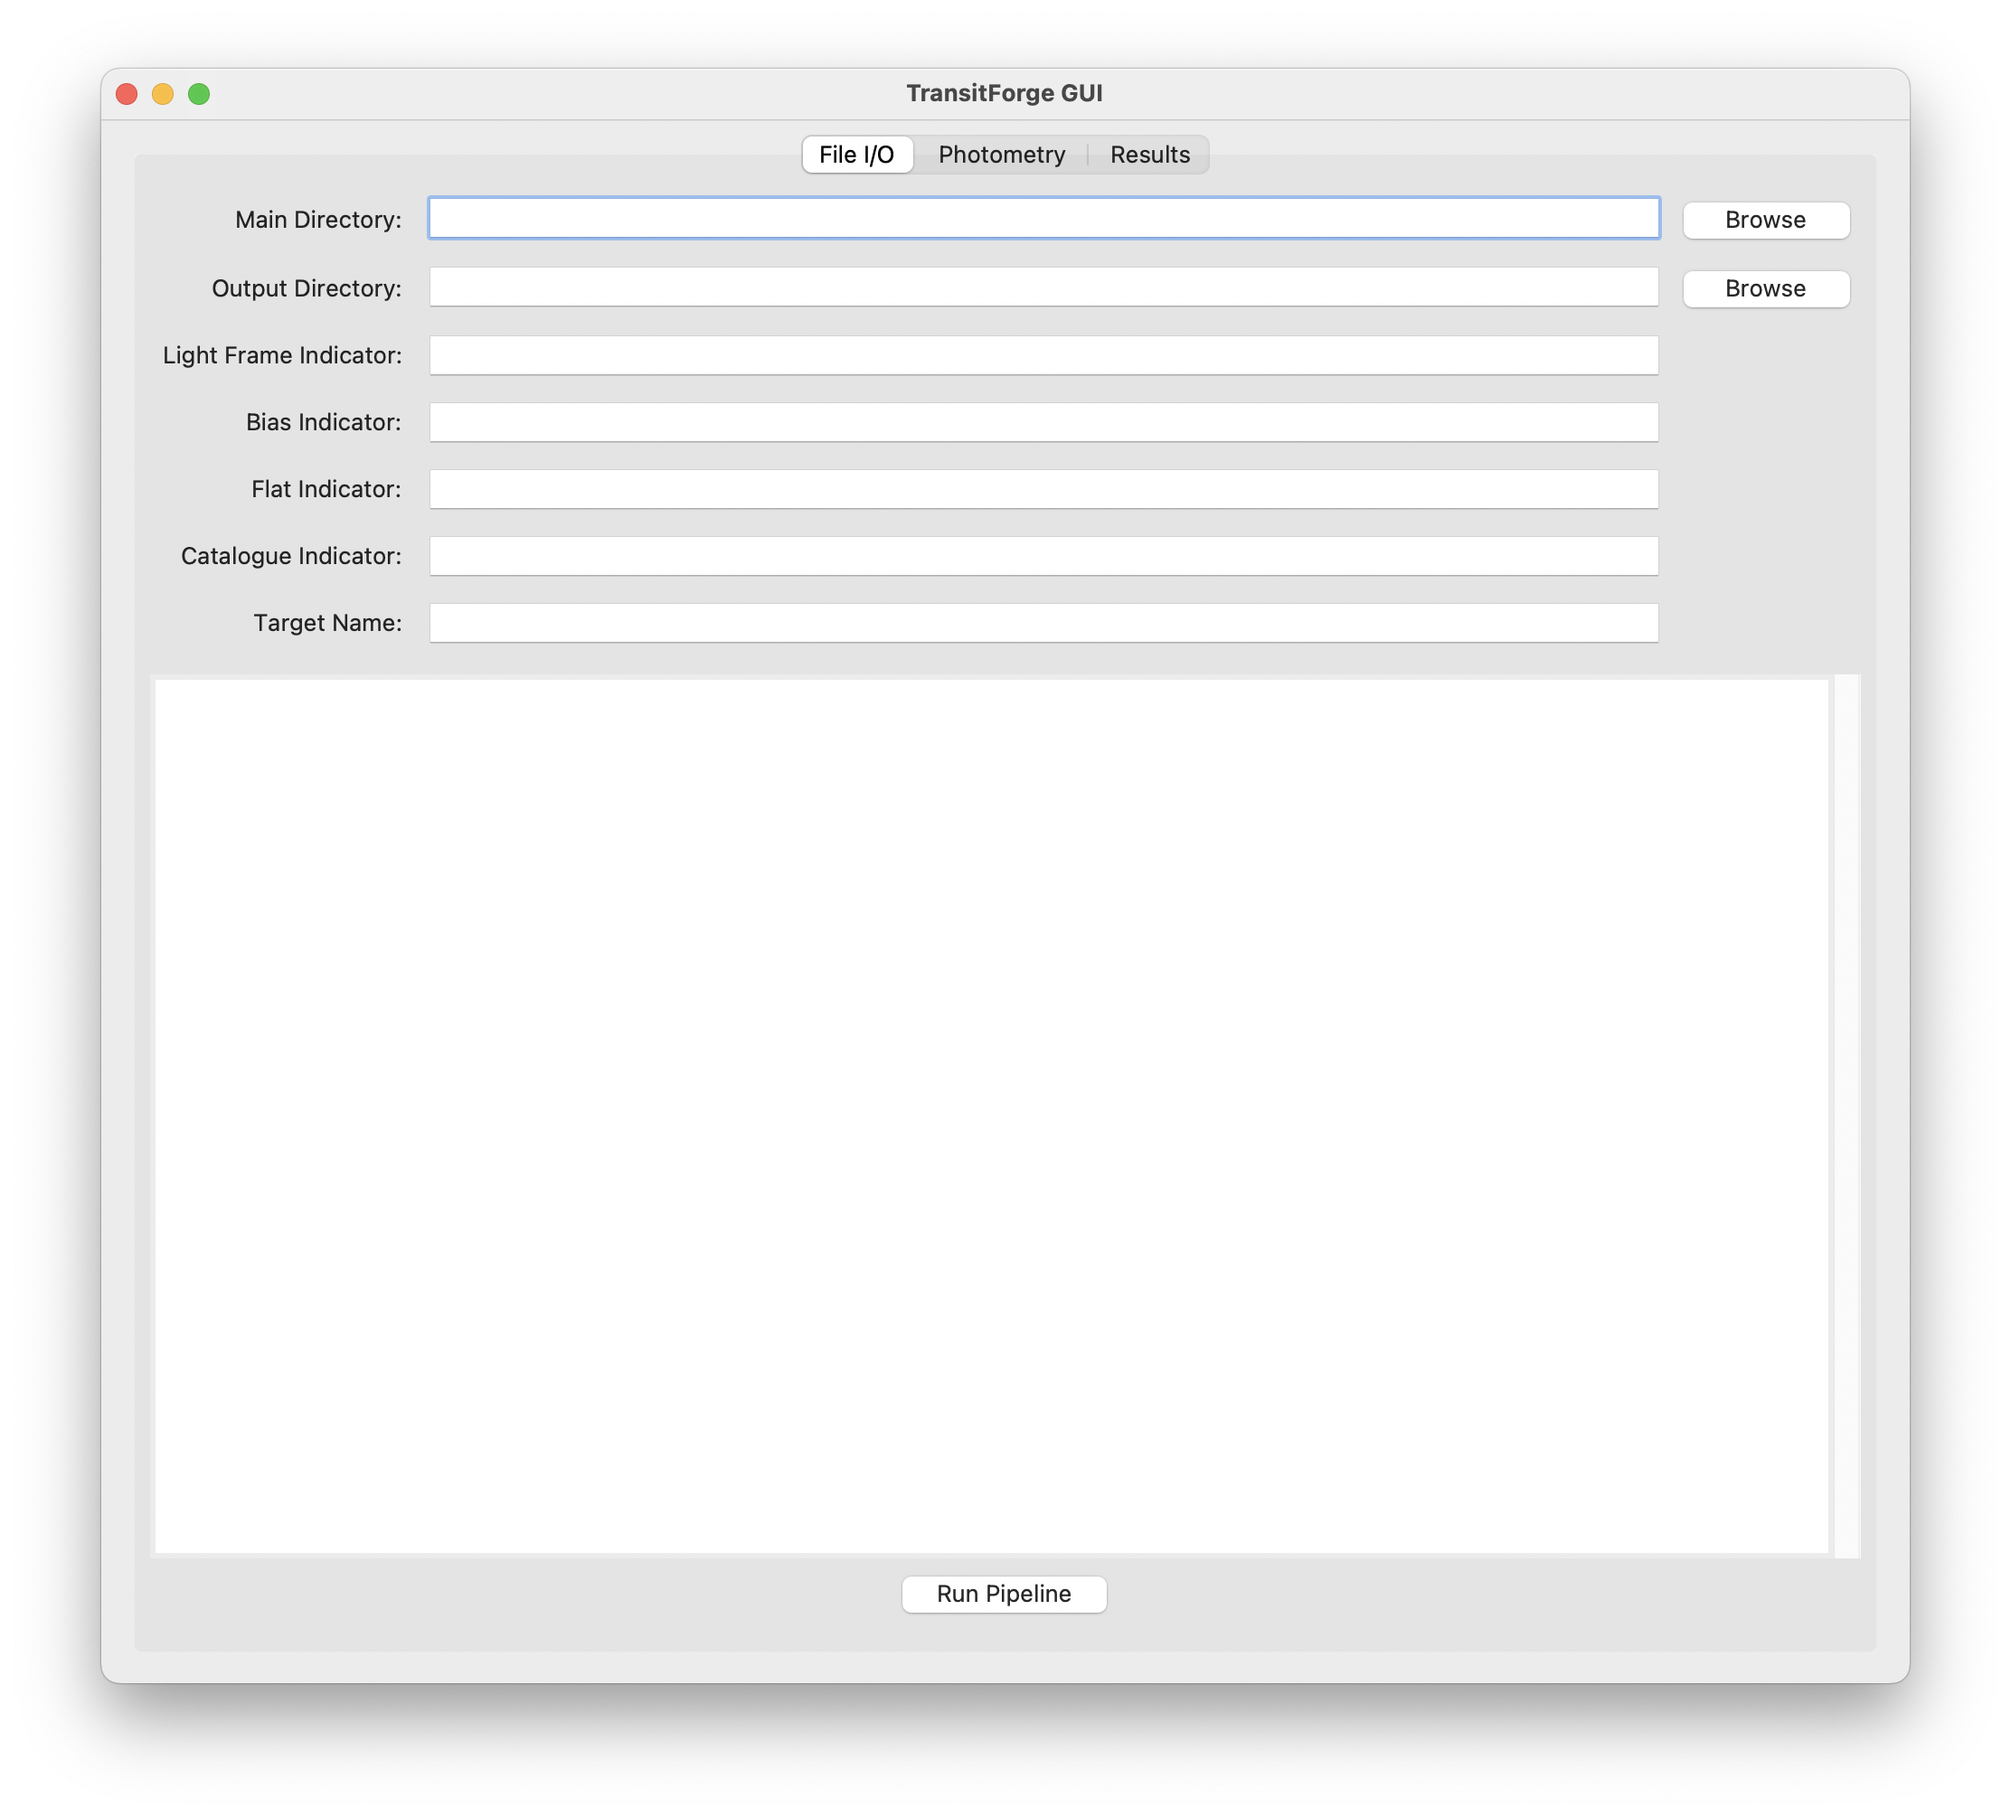
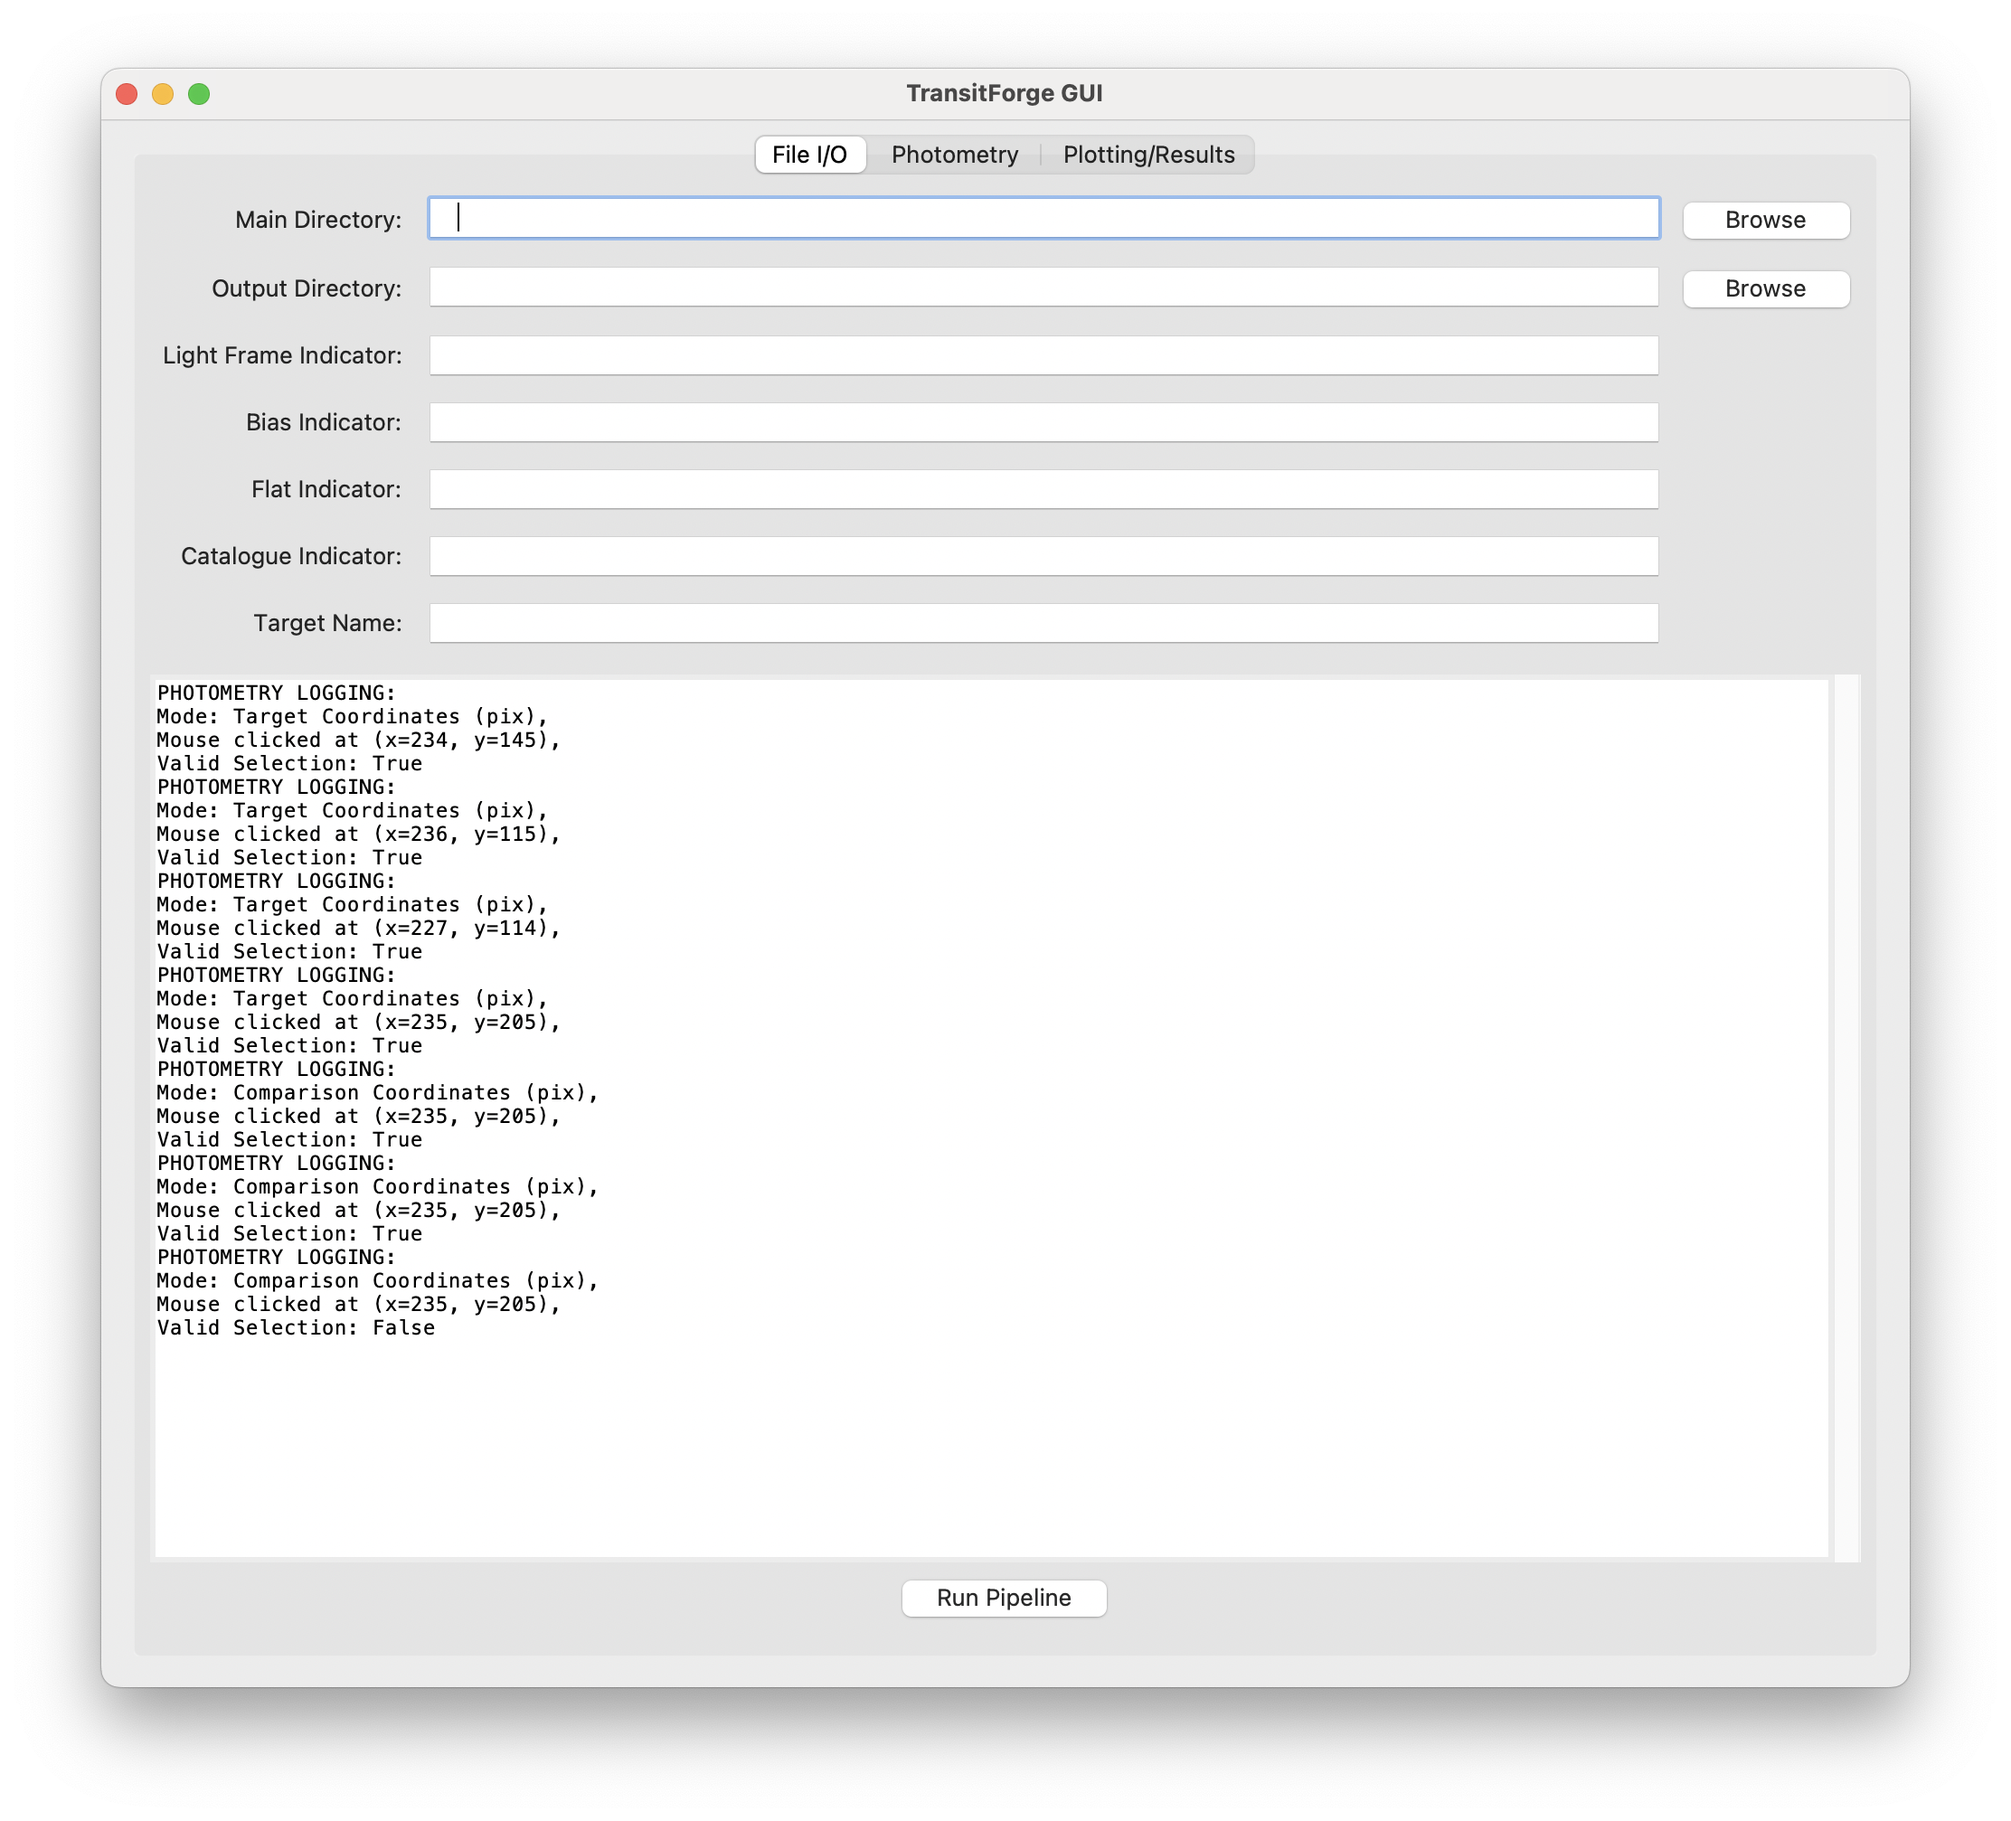
fixed pixel selection logic (for the most part, still need to protect out of order select buttons), and must pipe the valid pixel selections to the respectiveinput bars  automatically.

diff --git a/gui/zoom.py b/gui/zoom.py
@@ -5,7 +5,7 @@ import numpy as np
 from gui.gui import ImageLoader
 
 class ZoomViewer:
-    def __init__(self, canvas, image, on_select, zoom_box=100, zoom_factor=4, selection_mode="Target Coordinates (pix)"):
+    def __init__(self, canvas, image, on_select, logger, zoom_box=50, zoom_factor=4, selection_mode="Target Coordinates (pix)"):
         self.canvas = canvas
         self.image = image
         self.on_select = on_select
@@ -31,7 +31,7 @@ class ZoomViewer:
         self.target_x, self.target_y = None, None
         self.comparison_x, self.comparison_y = None, None
         self.validation_x, self.validation_y = None, None
-        
+        self.logger = logger
 
     def update_zoom(self, event):
         x, y = event.x, event.y
@@ -51,30 +51,38 @@ class ZoomViewer:
         if self.selection_mode == "Target Coordinates (pix)":
             self.cutout_x, self.target_x = event.x, event.y
             self.cutout_y, self.target_y = event.y, event.y
-        elif is_valid_event(event.x, event.y):
+            self.on_select(self.cutout_x, self.cutout_y)
+            #we must reset non-target selections, since an adjustment of target zoom area can lead to invalid previous selections (comp/vali)
+            self.reset_non_target()
+        elif self.is_valid_event(event.x, event.y):
             if self.selection_mode == "Comparison Coordinates (pix)":
                 self.comparison_x = event.x
                 self.comparison_y = event.y
             elif self.selection_mode == "Comparison Coordinates (pix)":
                 self.validation_x = event.x
                 self.validation_y = event.y 
-        self.on_select(self.cutout_x, self.cutout_y)
-        print(f"Mouse clicked at (x={self.cutout_x}, y={self.cutout_y})")
-
+        
+        log_message = f"PHOTOMETRY LOGGING: \nMode: {self.selection_mode}, \nMouse clicked at (x={self.cutout_x}, y={self.cutout_y}), \nValid Selection: {self.is_valid_event(event.x, event.y)}\n"
+        self.logger.insert(END, log_message)
+        
     def is_valid_event(self, event_x, event_y) -> bool:
         return (event_x > self.cutout_x - self.zoom_box//2 and event_x < self.cutout_x  + self.zoom_box//2 and 
                 event_y > self.cutout_y - self.zoom_box//2 and event_y < self.cutout_y  + self.zoom_box//2)
-            
-            
-# Main app
+        
+    def set_mode(self, mode_label: str): 
+        self.selection_mode = mode_label 
+    
+    def reset_non_target(self):
+        self.comparison_x, self.comparison_y = None, None
+        self.validation_x, self.validation_y = None, None
+
 if __name__ == '__main__':
     root = Tk()
     canvas = Canvas(root, width=400, height=400)
     canvas.pack()
 
     img_load = ImageLoader()
-    image_path = "/Users/spencerfreeman/Desktop/TransitForge/TestingNotebooks/test_image/Qatar-5b-0001_lrp.fit"  # Replace with your image file
-    #pass the resized image
+    image_path = "/Users/spencerfreeman/Desktop/TransitForge/TestingNotebooks/test_image/Qatar-5b-0001_lrp.fit"  
     image = img_load.fits_to_image(image_path).resize((400, 400))
     photo = ImageTk.PhotoImage(image)
     canvas.create_image(0, 0, image=photo, anchor="nw")

diff --git a/gui/gui.py b/gui/gui.py
@@ -106,9 +106,10 @@ class AstroPipelineGUI(ttk.Frame):
             self.entries[label_text] = entry
             if "coordinates" in label_text.lower():
                 current_image = self.frames[self.current_frame_index][0]
-                ttk.Button(parent, text="Select", command=self.select_pix).grid(row=i+2, column=2, padx=5, pady=5) 
+                ttk.Button(parent, text="Select", 
+                           command=lambda m=label_text: self.select_pix(m)).grid(row=i+2, column=2, padx=5, pady=5) 
 
-        # Placeholder image
+        #placeholder image, 400x400
         placeholder = Image.new("L", (400, 400), color=200)
         self.frames = [(ImageTk.PhotoImage(placeholder), "No Files Loaded")]
         self.image_canvas = Canvas(parent, width=400, height=400, bg="black")
@@ -168,25 +169,27 @@ class AstroPipelineGUI(ttk.Frame):
             self.image_canvas.image = self.frames[self.current_frame_index][0]
             self.image_counter.configure(text=self.get_image_counter_text())
             
-    def select_pix(self):
-        if self.zoom_window is not None and tk.Toplevel.winfo_exists(self.zoom_window):
-            self.zoom_window.close()
-
+    def select_pix(self, mode_label):
         if self.frames and self.frames[0][1] != "No Files Loaded":
-            current_pil_image = self.frames[self.current_frame_index][2]
+            current_image = self.frames[self.current_frame_index][2]
 
             def on_select(x, y):
                 self.zoom_window.cutout_x = x
                 self.zoom_window.cutout_y = y
                 self.draw_subsection()
-
-            self.zoom_window = ZoomViewer(self.image_canvas, current_pil_image, on_select)
-
-
+                
+            #determine if zoom_window has been initialized and manage behavior based on outcome.
+            if not hasattr(self, "zoom_window") or not self.zoom_window: 
+                self.zoom_window = ZoomViewer(self.image_canvas, current_image, on_select, logger=self.log_text, )
+            else:
+                self.zoom_window.image = current_image
+            print(mode_label)
+            self.zoom_window.set_mode(mode_label)
+            
     def draw_subsection(self):
         if self.zoom_window and self.zoom_window.cutout_x is not None and self.zoom_window.cutout_y is not None:
             x, y = self.zoom_window.cutout_x, self.zoom_window.cutout_y
-            half_size = 50  #for a 100x100 square on subsection, rescale needed for frames
+            half_size = 25  #for a 50x50 square on subsection, rescale needed for frames
             x1, y1 = x - half_size, y - half_size
             x2, y2 = x + half_size, y + half_size
             self.image_canvas.delete("subsection")

diff --git a/README.md b/README.md
@@ -13,7 +13,7 @@
 - Primary Goal: Production of exoplanet transit light curves.
 - Development: Ongoing work on a graphical user interface (GUI) and existing features, decrease overhead computation.
 - Target Data: The pipeline aims to support analysis of existing TESS data with libraries such as Astropy, the Photutils sub-package, and personal/group observational data.
-- Functionality: Designed to work similarly to AstroImageJ, but in a more condensed and streamlined manner.
+- Functionality: Designed to work similarly to AstroImageJ, but in a more condensed and streamlined manner, tailored to STEPUP operations.
   
 ## GUI Preview
 
@@ -22,6 +22,9 @@
 </p>
 <p align="center">
   <img src="./static/photometry.png" width="700" />
+</p>
+<p align="center">
+  <img src="./static/zoom_window.png" width="500" />
 </p>
 <p align="center">
   <img src="./static/plotting.png" width="700" />
